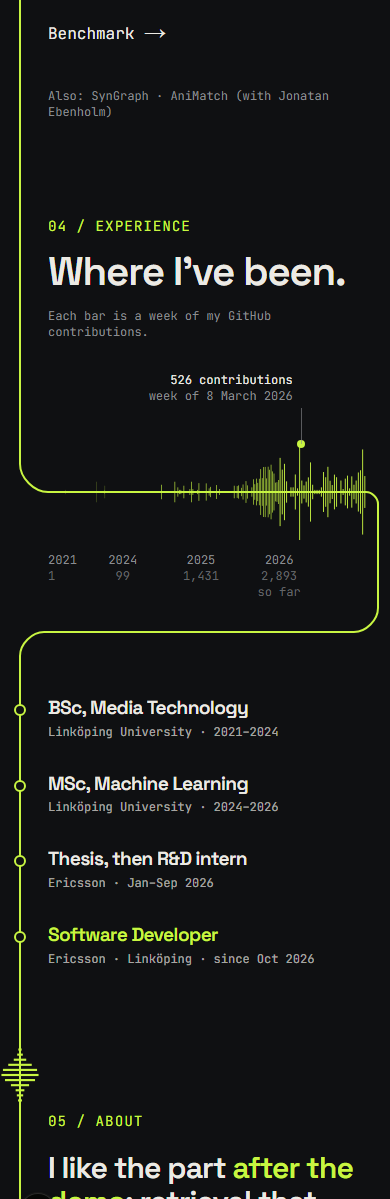
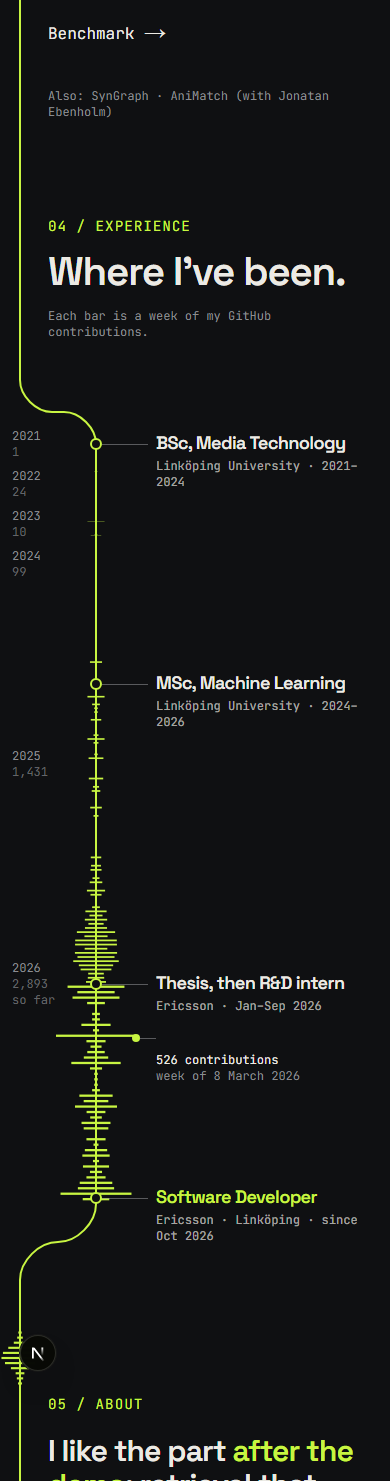
Experience on phones: top to bottom again, with wider bars and more room for the recent years

diff --git a/components/landing/sections.tsx b/components/landing/sections.tsx
@@ -383,13 +383,14 @@ export function Research() {
   );
 }
 
-// Year to % along the time axis, from the left. The years before
+// Year to % along the time axis (desktop, from the left) and px down the phone's axis. The years before
 // 2024 barely show on GitHub, so they get a third of the room the later ones do.
 const axis = (stops: number[]) => (year: number) => {
   const i = Math.min(stops.length - 2, Math.max(0, Math.floor(year - 2021)));
   return stops[i]! + (year - 2021 - i) * (stops[i + 1]! - stops[i]!);
 };
 const X = axis([5, 12, 19, 26, 48, 70, 102]);
+const Ypx = axis([64, 104, 144, 184, 384, 604, 889]);
 
 const years = [2021, 2022, 2023, 2024, 2025, 2026];
 // Where each moment sits on the axis, and on desktop whether it hangs above it.
@@ -436,9 +437,7 @@ export function Experience({ commits }: { commits: Commits | null }) {
     c.experience.week(new Intl.DateTimeFormat(tag, { day: "numeric", month: "long", year: "numeric", timeZone: "UTC" }).format(new Date(peak.start))),
   ];
   const wave = { floor: 0.02, peaks: careerPeaks, sweep: true };
-  // Phone: a year as a fraction of the way across, and as a left offset.
-  const f = (y: number) => (X(y) - X(from)) / (X(to) - X(from));
-  const across = (y: number) => `calc(48px + ${f(y)} * (100% - 72px))`;
+
   // One stretch of bars per year, since the years are drawn at different widths.
   const stretches = weeks
     ? years.map((y) => ({
@@ -512,47 +511,43 @@ export function Experience({ commits }: { commits: Commits | null }) {
       </div>
       <Wire from="98%" to="2%" />
 
-      {/* Phone: the trace runs the weeks across the screen, 48 px in to 24 px from the edge, then drops back
-          to its lane for the moments. */}
-      <div className="relative mt-8 lg:hidden">
+      {/* Phone: the axis runs down from 2021, 96 px in, years and totals at its left, moments at its right. */}
+      <div className="relative mt-10 lg:hidden" style={{ height: Ypx(to) + 80 }}>
         <A className="top-0 left-5" />
-        <A className="top-[120px] left-12 [--dir:h]" />
+        <A className="left-24" style={{ top: Ypx(from) }} />
         {stretches.map((st) => (
-          <div className="-translate-y-1/2 absolute top-[120px] h-24" key={st.from} style={{ left: across(st.from), width: `calc(${f(st.to) - f(st.from)} * (100% - 72px))` }}>
-            <Wave className="size-full" n={st.values?.length ?? 60} values={st.values} {...wave} />
+          <div className="-translate-x-1/2 absolute left-24 w-20" key={st.from} style={{ top: Ypx(st.from), height: Ypx(st.to) - Ypx(st.from) }}>
+            <Wave className="size-full" n={st.values?.length ?? 90} values={st.values} vertical {...wave} />
           </div>
         ))}
-        {[2021, 2024, 2025, 2026].map((y) => (
-          <span className={cn("absolute top-[180px] text-(--dim) text-xs", y > 2021 && "-translate-x-1/2 text-center")} key={y} style={{ left: across(Math.max(from, y)) }}>
+        {years.map((y) => (
+          <span className="-translate-y-1/2 absolute left-3 text-(--dim) text-xs" key={y} style={{ top: Ypx(y) }}>
             {y}
             {weeks && <span className="block text-(--dim)/70">{total(y)}</span>}
           </span>
         ))}
+        {moments.map((m, i) => {
+          const t = c.experience.moments[i]!;
+          return (
+            <div className="absolute right-6 left-[156px]" key={m.at} style={{ top: Ypx(m.at) - 12 }}>
+              <span className="-left-[60px] -translate-x-1/2 -translate-y-1/2 absolute top-3 size-3 rounded-full border-2 border-(--lime) bg-(--bg)" />
+              <span className="-left-[54px] absolute top-3 h-px w-[46px] bg-(--dim)/60" />
+              <p className={cn("font-display text-[18px] leading-tight", i === 3 && "text-(--lime)")}>{t.title}</p>
+              <p className="mt-1 text-(--fg)/70 text-xs">{t.line}</p>
+            </div>
+          );
+        })}
         {peakLabel && (
           <>
-            <span className="-translate-x-1/2 -translate-y-1/2 absolute top-[72px] size-2 rounded-full bg-(--lime)" style={{ left: across(at) }} />
-            <span className="absolute top-[36px] h-[36px] w-px bg-(--dim)/60" style={{ left: across(at) }} />
-            <p className="absolute top-0 whitespace-nowrap pr-2 text-right text-xs" style={{ right: `calc(100% - ${across(at)})` }}>
+            <span className="-translate-x-1/2 -translate-y-1/2 absolute left-[136px] size-2 rounded-full bg-(--lime)" style={{ top: Ypx(at) }} />
+            <span className="absolute left-[140px] h-px w-[16px] bg-(--dim)/60" style={{ top: Ypx(at) }} />
+            <p className="absolute left-[156px] text-xs" style={{ top: Ypx(at) + 14 }}>
               {peakLabel[0]}
               <span className="block text-(--dim)">{peakLabel[1]}</span>
             </p>
           </>
         )}
-        <A className="top-[120px] right-6 [--dir:h]" />
-        <A className="top-[236px] right-3" />
-        <A className="top-[284px] left-5" />
-        <ol className="space-y-8 pt-[324px] pr-6 pb-8 pl-12">
-          {moments.map((m, i) => {
-            const t = c.experience.moments[i]!;
-            return (
-              <li className="relative" key={m.at}>
-                <span className="-left-7 -translate-x-1/2 absolute top-2 size-3 rounded-full border-2 border-(--lime) bg-(--bg)" />
-                <p className={cn("font-display text-[19px] leading-tight", i === 3 && "text-(--lime)")}>{t.title}</p>
-                <p className="mt-1 text-(--fg)/70 text-xs">{t.line}</p>
-              </li>
-            );
-          })}
-        </ol>
+        <A className="left-24" style={{ top: Ypx(to) }} />
         <A className="bottom-0 left-5" />
       </div>
     </section>

diff --git a/design/README.md b/design/README.md
@@ -51,7 +51,7 @@ the stations are in `lib/data/flows.ts` and the drawing is `components/landing/f
   sections place zero-size anchors (`<A />` in `components/landing/trace.tsx`) and the root joins them
   with curves; an anchor hidden at a breakpoint is skipped, so desktop and phone route differently.
 - Motion: the trace draws itself on scroll down to a pen at 75 % of the viewport, with a lime dot at its
-  tip. Each waveform (`<Wave />`) swells from flat when the line reaches it; the career axis and the contact waveform fill bar by bar as the line runs through them, and the line always joins a waveform at its end, never inside it. The stack's plates open with the scroll: closed as the drawing comes up, fully open once the whole drawing is on screen, and closing again on the way back up, with the guides and labels fading in last. While open each plate's finish loops (the focus field steps across the layout, a dash runs the groove, matrix cells blink, contour rings ripple, slots light in turn); with reduced motion the stack is open and still. The photo prints work the same way: piled in the middle as the row comes up, dealt out once the whole row is on screen, piled again on the way back up. On desktop the hero's signal fills from left to right as the page starts to scroll and the trace leaves from its right end (on phones it is already on). Experience runs from 2021 on the left to now on the right, a bar per week of GitHub contributions read at build time and refreshed hourly (`lib/github.ts`, `experience-r1.md`), each as tall as the square root of its count, with year totals under the years and the busiest week called out; the years before 2024 barely show on GitHub, so they get a third of the width of the later ones; on phones the weeks run across the screen under the headline and the moments follow on the lane; without a GITHUB_TOKEN the drawn wave stands in.
+  tip. Each waveform (`<Wave />`) swells from flat when the line reaches it; the career axis and the contact waveform fill bar by bar as the line runs through them, and the line always joins a waveform at its end, never inside it. The stack's plates open with the scroll: closed as the drawing comes up, fully open once the whole drawing is on screen, and closing again on the way back up, with the guides and labels fading in last. While open each plate's finish loops (the focus field steps across the layout, a dash runs the groove, matrix cells blink, contour rings ripple, slots light in turn); with reduced motion the stack is open and still. The photo prints work the same way: piled in the middle as the row comes up, dealt out once the whole row is on screen, piled again on the way back up. On desktop the hero's signal fills from left to right as the page starts to scroll and the trace leaves from its right end (on phones it is already on). Experience runs from 2021 on the left to now on the right, a bar per week of GitHub contributions read at build time and refreshed hourly (`lib/github.ts`, `experience-r1.md`), each as tall as the square root of its count, with year totals under the years and the busiest week called out; the years before 2024 barely show on GitHub, so they get a third of the width of the later ones; on phones the axis runs down 96 px in, years and totals at its left and the moments at its right; without a GITHUB_TOKEN the drawn wave stands in.
   With prefers-reduced-motion the trace is drawn in full and nothing moves.
 - Phone: the trace runs in a lane 20 px from the left edge, text starts at 48 px, drawings run top to
   bottom, tap targets are at least 44 px. The header is "Berkay Orhan", Contact and a menu on every screen.
